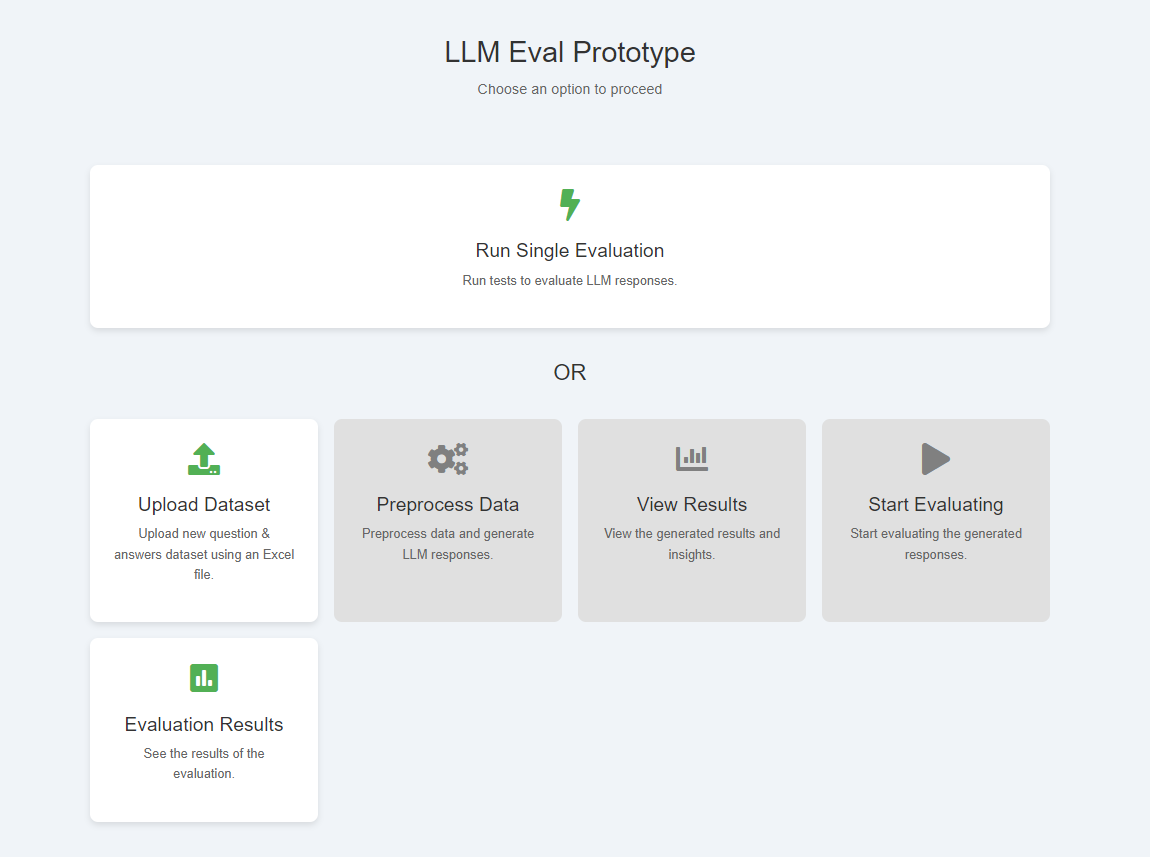
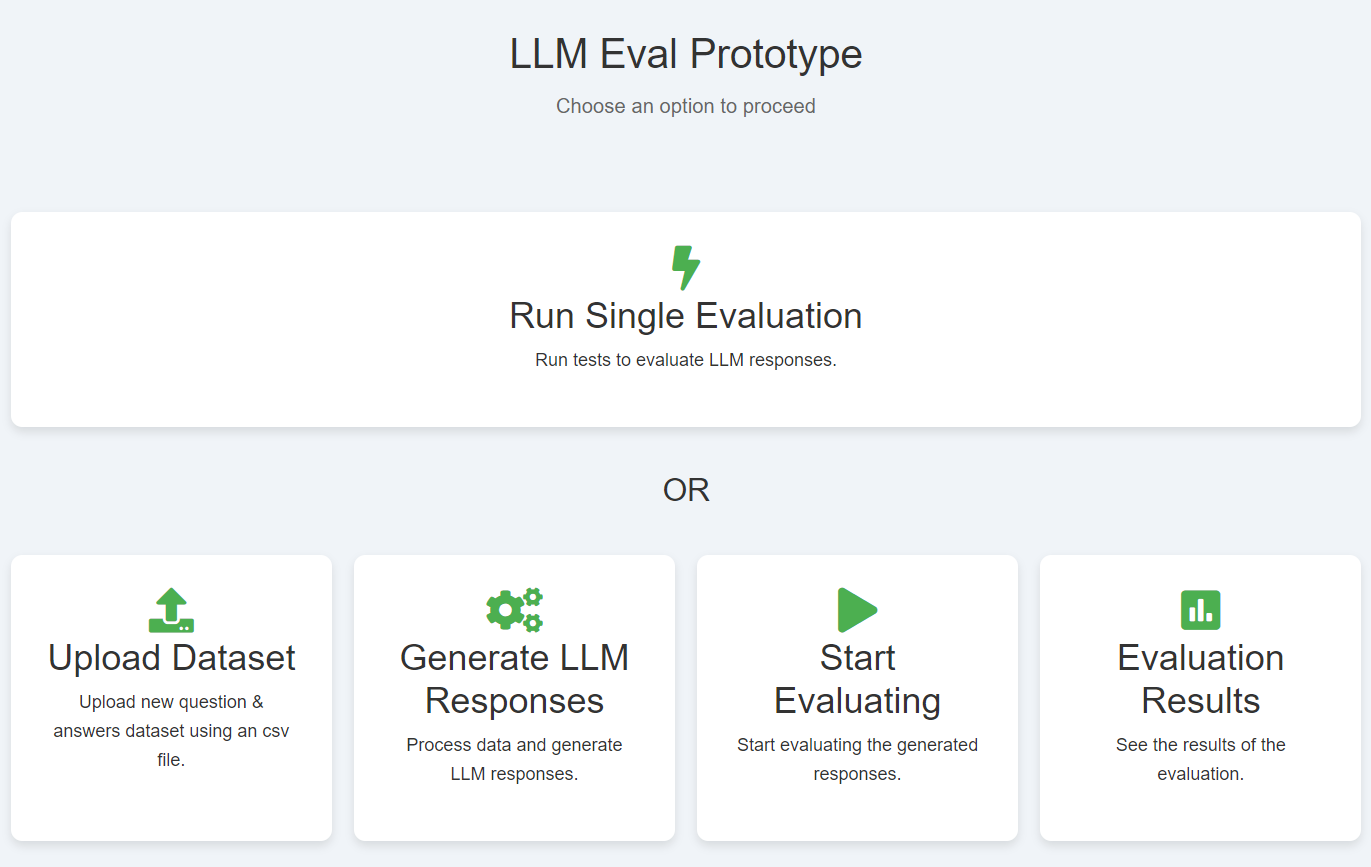
final minor changes

diff --git a/src/components/SingleEval.js b/src/components/SingleEval.js
@@ -1,5 +1,6 @@
 import React, { useState } from 'react';
 import { useNavigate } from 'react-router-dom';
+import { Spinner } from 'react-bootstrap'; // Import Spinner from React-Bootstrap
 
 // Modal component for displaying evaluation results
 const Modal = ({ showModal, handleClose, children }) => {
@@ -23,21 +24,23 @@ function SingleEval() {
   const [question, setQuestion] = useState('');
   const [idealAnswer, setIdealAnswer] = useState('');
   const [responseType, setResponseType] = useState('llm');
-  const [selectedModel, setSelectedModel] = useState('Llama 3.2');
+  const [selectedModel, setSelectedModel] = useState('llama');
   const [userResponse, setUserResponse] = useState('');
   const [evaluationResults, setEvaluationResults] = useState(null);
   const [llmResponse, setLlmResponse] = useState(null);
-  const [showModal, setShowModal] = useState(false); // State to track modal visibility
+  const [showModal, setShowModal] = useState(false);
+  const [loading, setLoading] = useState(false); // Loading state
   const navigate = useNavigate();
 
   const getLLMResponse = async () => {
-    if (responseType === 'llm') {
-      try {
-        if(question === null || question.trim() === ''){
-            throw new Error('Question cannot be empty.');
-        }else if(idealAnswer === null || idealAnswer.trim() === ''){
-            throw new Error('Ideal Answer cannot be empty.');
-        }        
+    setLoading(true); // Start loading
+    try {
+      if (question === null || question.trim() === '') {
+        throw new Error('Question cannot be empty.');
+      } else if (idealAnswer === null || idealAnswer.trim() === '') {
+        throw new Error('Ideal Answer cannot be empty.');
+      }
+      if (selectedModel === 'hugging-quants/Llama-3.2-1B-Instruct-Q8_0-GGUF/llama-3.2-1b-instruct-q8_0.gguf') {
         const body = {
           model: selectedModel,
           messages: [
@@ -45,6 +48,7 @@ function SingleEval() {
             { role: 'user', content: `Claim: ${question}` },
           ],
           temperature: 0.7,
+          max_tokens: 200,
         };
 
         const response = await fetch('http://localhost:1234/v1/chat/completions', {
@@ -58,23 +62,43 @@ function SingleEval() {
         const data = await response.json();
         console.log(data);
         const llmScore = data.choices[0].message.content;
-        setLlmResponse(llmScore); // Store LLM response
-      } catch (error) {
-        console.error('Error fetching LLM response:', error);
-        setLlmResponse('Error fetching LLM response ' + error);
+        setLlmResponse(llmScore);
+      } else {
+        const body = {
+          question: question,
+          ideal_answer: idealAnswer,
+          selectedModel: selectedModel,
+        };
+        const response = await fetch('http://localhost:5000/api/generate-answers', {
+          method: 'POST',
+          headers: {
+            'Content-Type': 'application/json',
+          },
+          body: JSON.stringify(body),
+        });
+        const data = await response.json();
+        console.log(data);
+        const llmScore = data.result;
+        setLlmResponse(llmScore);
       }
+    } catch (error) {
+      console.error('Error fetching LLM response:', error);
+      setLlmResponse('Error fetching LLM response ' + error);
+    } finally {
+      setLoading(false); // Stop loading
     }
   };
 
   const handleEvaluate = async () => {
+    setLoading(true); // Start loading
     try {
       if (responseType === 'own' && (userResponse == null || userResponse.trim() === '')) {
         throw new Error('Your response cannot be empty.');
       } else if (responseType === 'llm' && (llmResponse == null || llmResponse.trim() === '')) {
         throw new Error('The LLM response cannot be empty.');
-      }else if(question === null || question.trim() === ''){
+      } else if (question === null || question.trim() === '') {
         throw new Error('Question cannot be empty.');
-      }else if(idealAnswer === null || idealAnswer.trim() === ''){
+      } else if (idealAnswer === null || idealAnswer.trim() === '') {
         throw new Error('Ideal Answer cannot be empty.');
       }
 
@@ -97,12 +121,14 @@ function SingleEval() {
       }
 
       const data = await response.json();
-      setEvaluationResults(data); // Set the evaluation results to the state
-      setShowModal(true); // Open the modal after evaluation
+      setEvaluationResults(data);
+      setShowModal(true);
     } catch (error) {
       console.error('Error Fetching Evaluation Results:', error);
       setEvaluationResults('Error Fetching Evaluation Results');
-      setShowModal(true); // Still show modal with error message
+      setShowModal(true);
+    } finally {
+      setLoading(false); // Stop loading
     }
   };
 
@@ -177,8 +203,16 @@ function SingleEval() {
           </div>
         )}
 
+        {/* Loading Spinner */}
+        {loading && (
+          <div style={{ textAlign: 'center', marginBottom: '10px' }}>
+            <Spinner animation="border" variant="primary" />
+          </div>
+        )}
+
+        {/* Get LLM Response Button */}
         {responseType === 'llm' && (
-          <button style={styles.button} onClick={getLLMResponse}>
+          <button style={styles.button} onClick={getLLMResponse} disabled={loading}>
             Get LLM Response
           </button>
         )}
@@ -203,7 +237,7 @@ function SingleEval() {
         )}
 
         {/* Evaluate Button */}
-        <button style={styles.button} onClick={handleEvaluate}>
+        <button style={styles.button} onClick={handleEvaluate} disabled={loading}>
           Evaluate
         </button>
 
@@ -247,6 +281,26 @@ function SingleEval() {
                       <td style={styles.metricLabel}><strong>ROUGE-L:</strong></td>
                       <td style={styles.metricValue}>{evaluationResults['llm-results'].rouge.rougeL[2]}</td>
                     </tr>
+                    <tr>
+                      <td style={styles.metricLabel}><strong>PERPLEXITY</strong></td>
+                      <td style={styles.metricValue}>{evaluationResults['llm-results'].perplexity}</td>
+                    </tr>
+                    <tr>
+                      <td style={styles.metricLabel}><strong>Semantic Similarity</strong></td>
+                      <td style={styles.metricValue}>{evaluationResults['llm-results'].semanticsimilarity}</td>
+                    </tr>
+                    <tr>
+                      <td style={styles.metricLabel}><strong>Factual Score</strong></td>
+                      <td style={styles.metricValue}>{evaluationResults['llm-results'].factualscore}</td>
+                    </tr>
+                    <tr>
+                      <td style={styles.metricLabel}><strong>BERTScore</strong></td>
+                      <td style={styles.metricValue}>{evaluationResults['llm-results'].BERTScore}</td>
+                    </tr>
+                    <tr>
+                      <td style={styles.metricLabel}><strong>Composite Score</strong></td>
+                      <td style={styles.metricValue}>{evaluationResults['llm-results'].compositescore}</td>
+                    </tr>
                   </tbody>
                 </table>
               </div>
@@ -254,9 +308,11 @@ function SingleEval() {
           )}
         </Modal>
 
+        {/* Go back to Homepage Button */}
         <button style={styles.button} onClick={() => navigate('/')}>
-          Go to Dashboard
+          Go back to Homepage
         </button>
+
       </div>
     </div>
   );
@@ -280,7 +336,7 @@ const modalStyles = {
     backgroundColor: '#fff',
     padding: '20px',
     borderRadius: '8px',
-    maxWidth: '500px',
+    maxWidth: '800px',
     width: '100%',
     textAlign: 'center',
     position: 'relative',

diff --git a/src/components/Home.js b/src/components/Home.js
@@ -105,7 +105,7 @@ function HomePage({updateData}) {
         <div style={styles.card} onClick={() => navigate('/upload-dataset')}>
           <i className="fas fa-upload" style={styles.icon}></i>
           <h2 style={styles.cardTitle}>Upload Dataset</h2>
-          <p style={styles.cardDescription}>Upload new question & answers dataset using an Excel file.</p>
+          <p style={styles.cardDescription}>Upload new question & answers dataset using an csv file.</p>
         </div>
 
         {/* Preprocess Data Card */}
